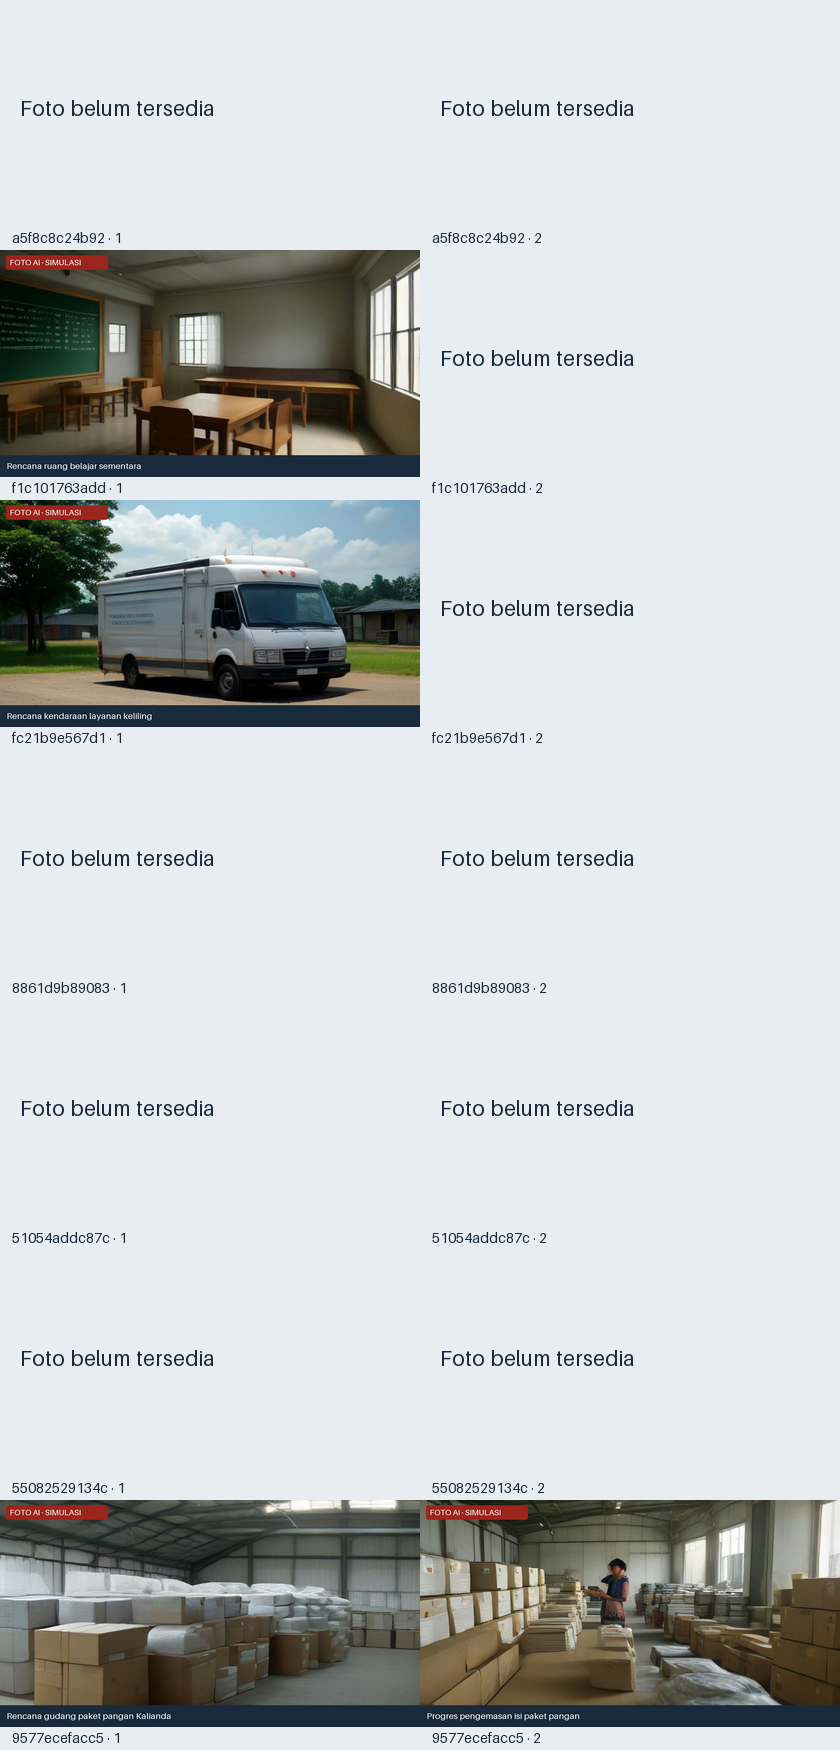
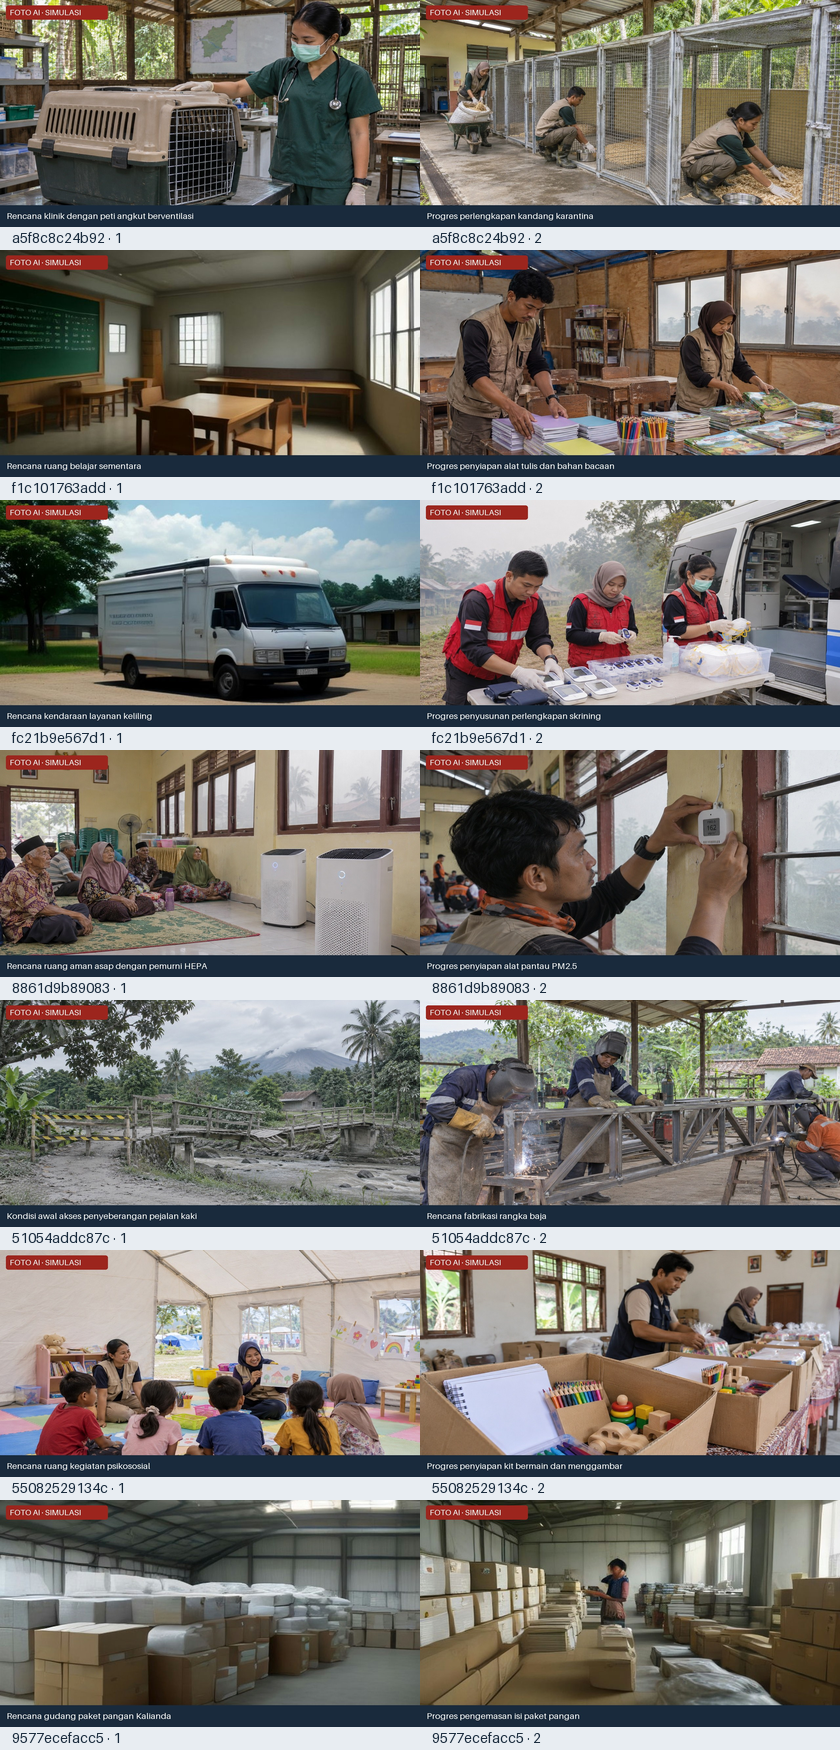
Lengkapi foto dan pengaman seed simulasi Kelompok B

diff --git a/scripts/seed-simulasi/program_lain_B.py b/scripts/seed-simulasi/program_lain_B.py
@@ -11,9 +11,22 @@ from urllib.parse import unquote, urlsplit
 import frappe
 from rescue_net import api_donor_program as dp
 from rescue_net.donor_program import plan
+from rescue_net.services.drill import is_simulation_event
 from rescue_net.services.money import lock
 
 DOCTYPE = "RN Donor Program"
+# Kolom ms, loc, nd, upd, don dari program-lain.tsv. Donasi pending tidak dihitung.
+SNAPSHOT_COUNTS = {
+    "8861d9b89083": (0, 0, 0, 3, 6),
+    "9577ecefacc5": (0, 0, 0, 0, 4),
+}
+SNAPSHOT_TABLES = (
+    ("RN Program Milestone", "program", {}),
+    ("RN Program Location", "program", {}),
+    ("RN Program Need", "program", {}),
+    ("RN Donor Program Update", "program", {}),
+    ("RN Cash Donation", "donor_program", {"status": "received"}),
+)
 PREFIXES = ("sampul-sim-", "rab-sim-", "gambar-sim-", "koran-sim-", "qris-sim-")
 
 
@@ -139,11 +152,21 @@ def seed_one(key, program, assets, data):
     event, locations = data.AREAS[program.area]
     lock(DOCTYPE, name)
     row = frappe.get_doc(DOCTYPE, name)
-    if row.disaster_event != event or row.program_type != program.kind:
+    if (row.disaster_event not in {event, f"disaster_events:{event}"}
+            or row.program_type != program.kind):
         raise ValueError(f"program/event berbeda: {row.program_type}, {row.disaster_event}")
     if marker in (row.notes or "").splitlines():
         print(f"{name}: seed sudah tercatat.")
         return
+    if os.environ.get("RN_PROG_PROD") == "1" and not is_simulation_event(row.disaster_event):
+        raise ValueError("Event tidak terdaftar sebagai simulasi")
+    counts = tuple(
+        frappe.db.count(doctype, {field: name, **extra})
+        for doctype, field, extra in SNAPSHOT_TABLES
+    )
+    expected = SNAPSHOT_COUNTS.get(key, (0, 0, 0, 0, 0))
+    if counts != expected:
+        raise ValueError(f"Jumlah milestone/lokasi/kebutuhan/kabar/donasi berbeda: {counts}, TSV {expected}")
     opening = (row.budget_received or 0, row.budget_spent or 0)
     if opening != program.opening:
         raise ValueError(f"dana awal DB {opening} berbeda dari TSV {program.opening}")
@@ -198,6 +221,16 @@ def seed():
         import data_b as data
     finally:
         sys.path.pop(0)
+
+    if prod_ok:
+        missing = [
+            f"{key}-foto-{index}.jpg"
+            for key, program in data.PROGRAMS.items()
+            for index, _ in enumerate(program.photos, 1)
+            if not (assets / f"{key}-foto-{index}.jpg").is_file()
+        ]
+        if missing:
+            raise FileNotFoundError("Foto produksi belum lengkap: " + ", ".join(missing))
 
     previous_user = frappe.session.user
     for key, program in data.PROGRAMS.items():

diff --git a/scripts/seed-simulasi/program_lain_B/generate.py b/scripts/seed-simulasi/program_lain_B/generate.py
@@ -151,7 +151,10 @@ def render_photos(source):
                 draw.rectangle((0, 687, 1280, 760), fill="#182a3c")
                 draw.text((20, 706), label, fill="white", font=font(27))
                 photo.save(ROOT / image_name, quality=88)
-                sheet.paste(photo.resize((width, height - 23), Image.Resampling.LANCZOS), (x, y))
+            if (ROOT / image_name).is_file():
+                with Image.open(ROOT / image_name) as stamped:
+                    preview = stamped.resize((width, height - 23), Image.Resampling.LANCZOS)
+                sheet.paste(preview, (x, y))
             else:
                 ImageDraw.Draw(sheet).text((x + 20, y + 95), "Foto belum tersedia", fill="#182a3c", font=font(21))
             ImageDraw.Draw(sheet).text((x + 12, y + height - 21), f"{key} · {index}", fill="#182a3c", font=font(14))
